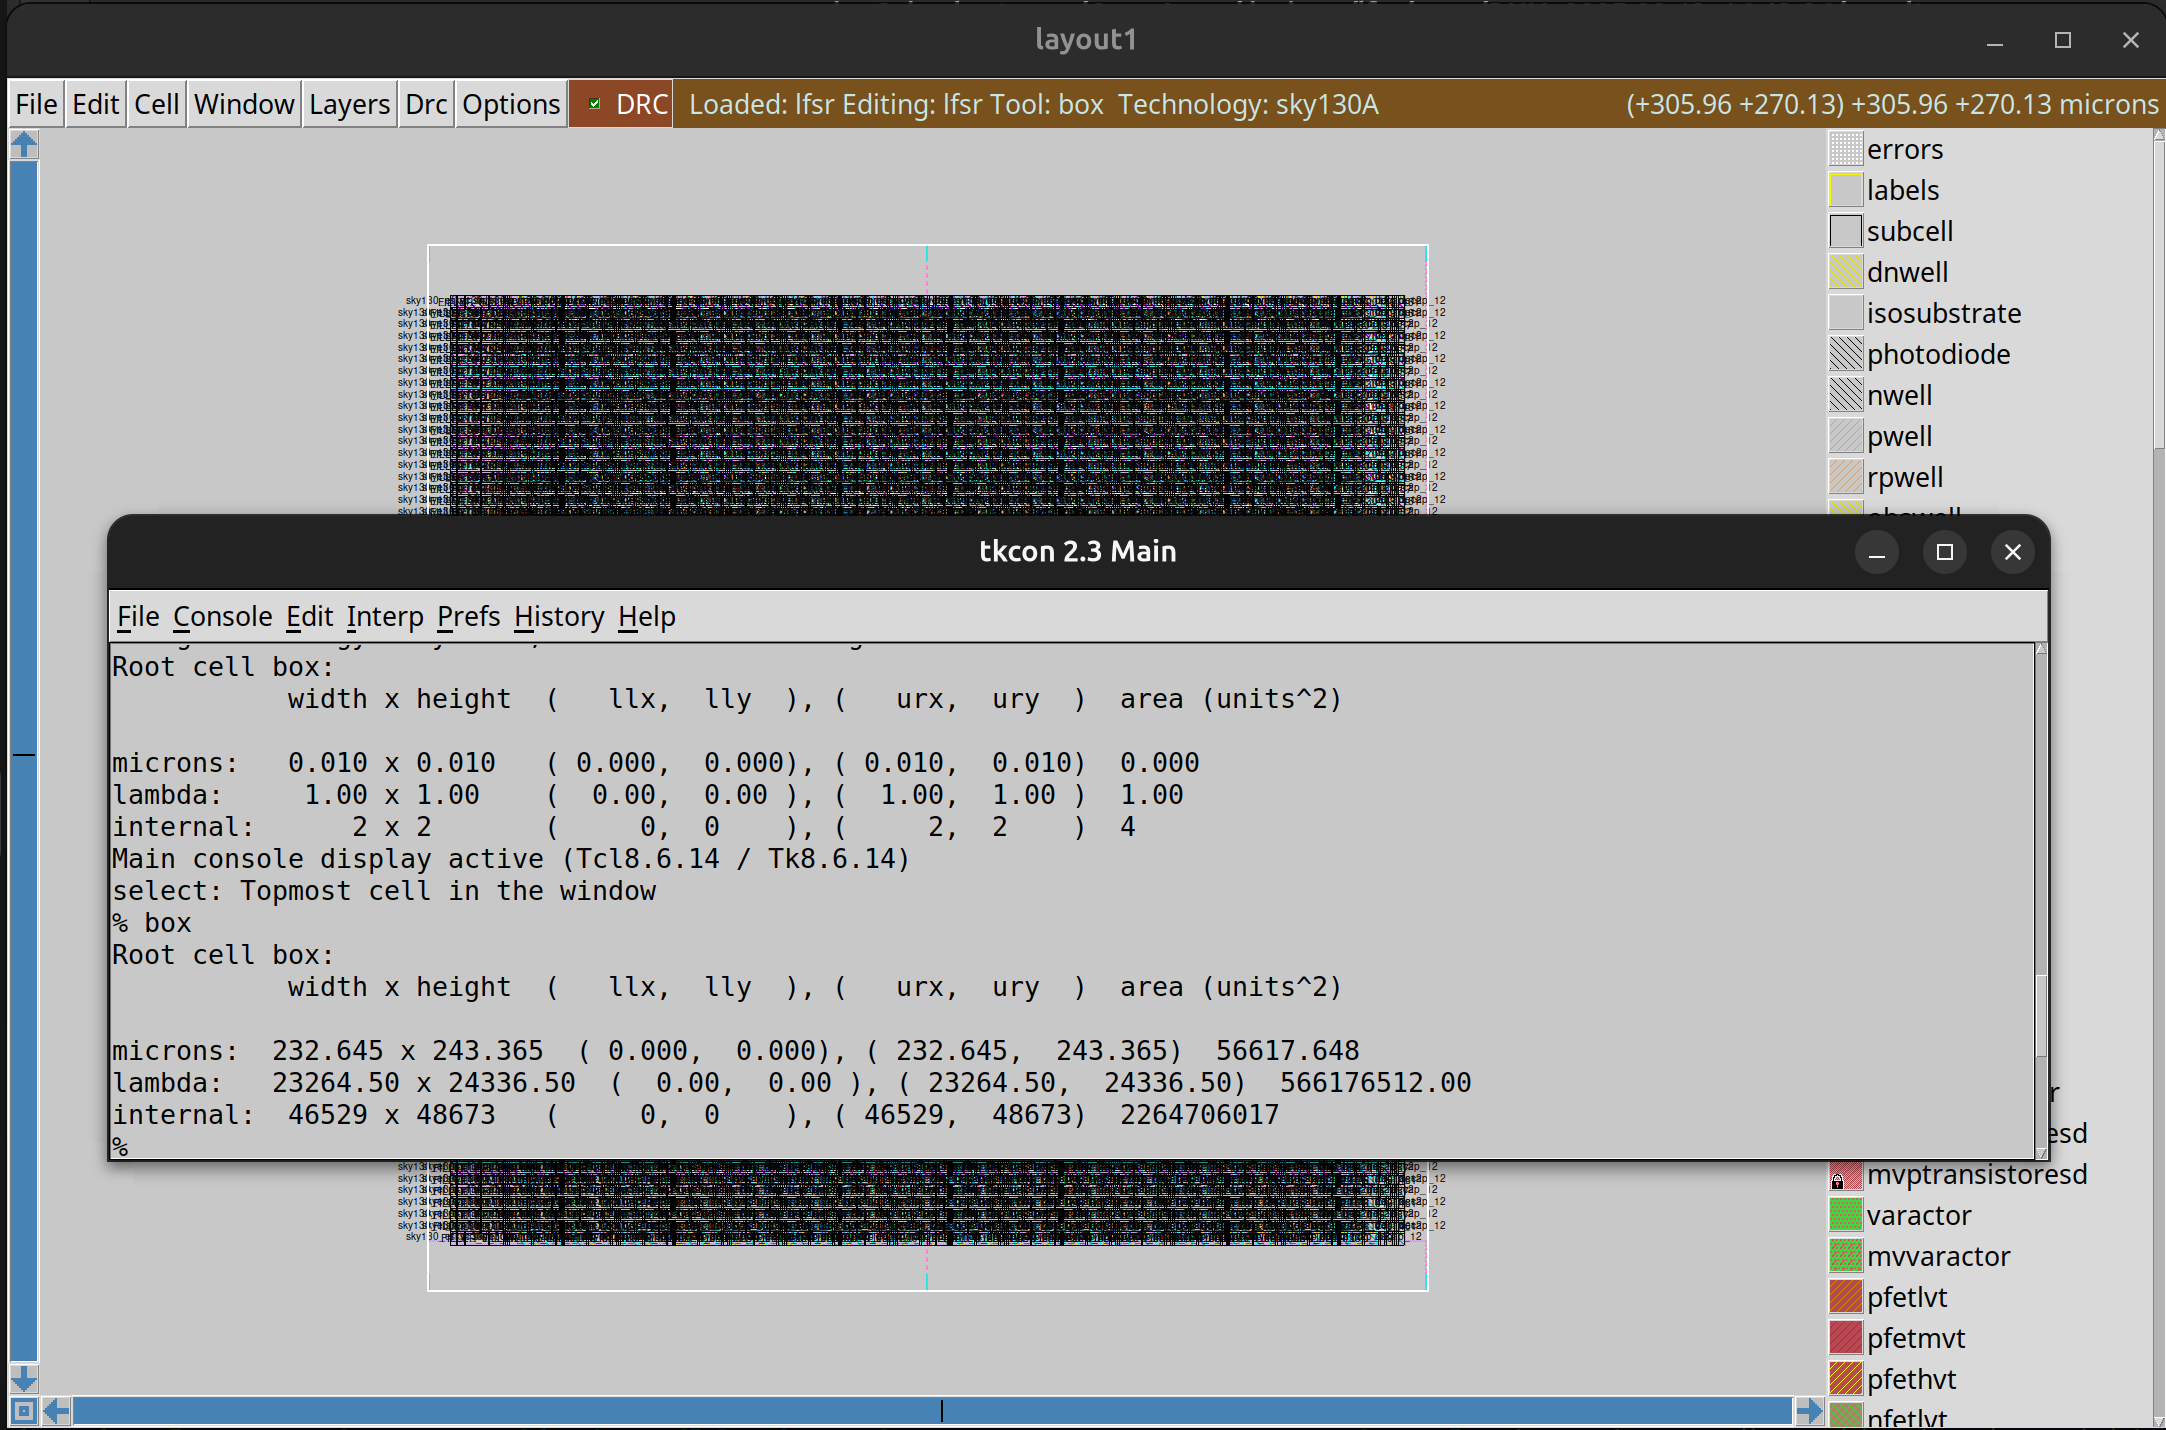
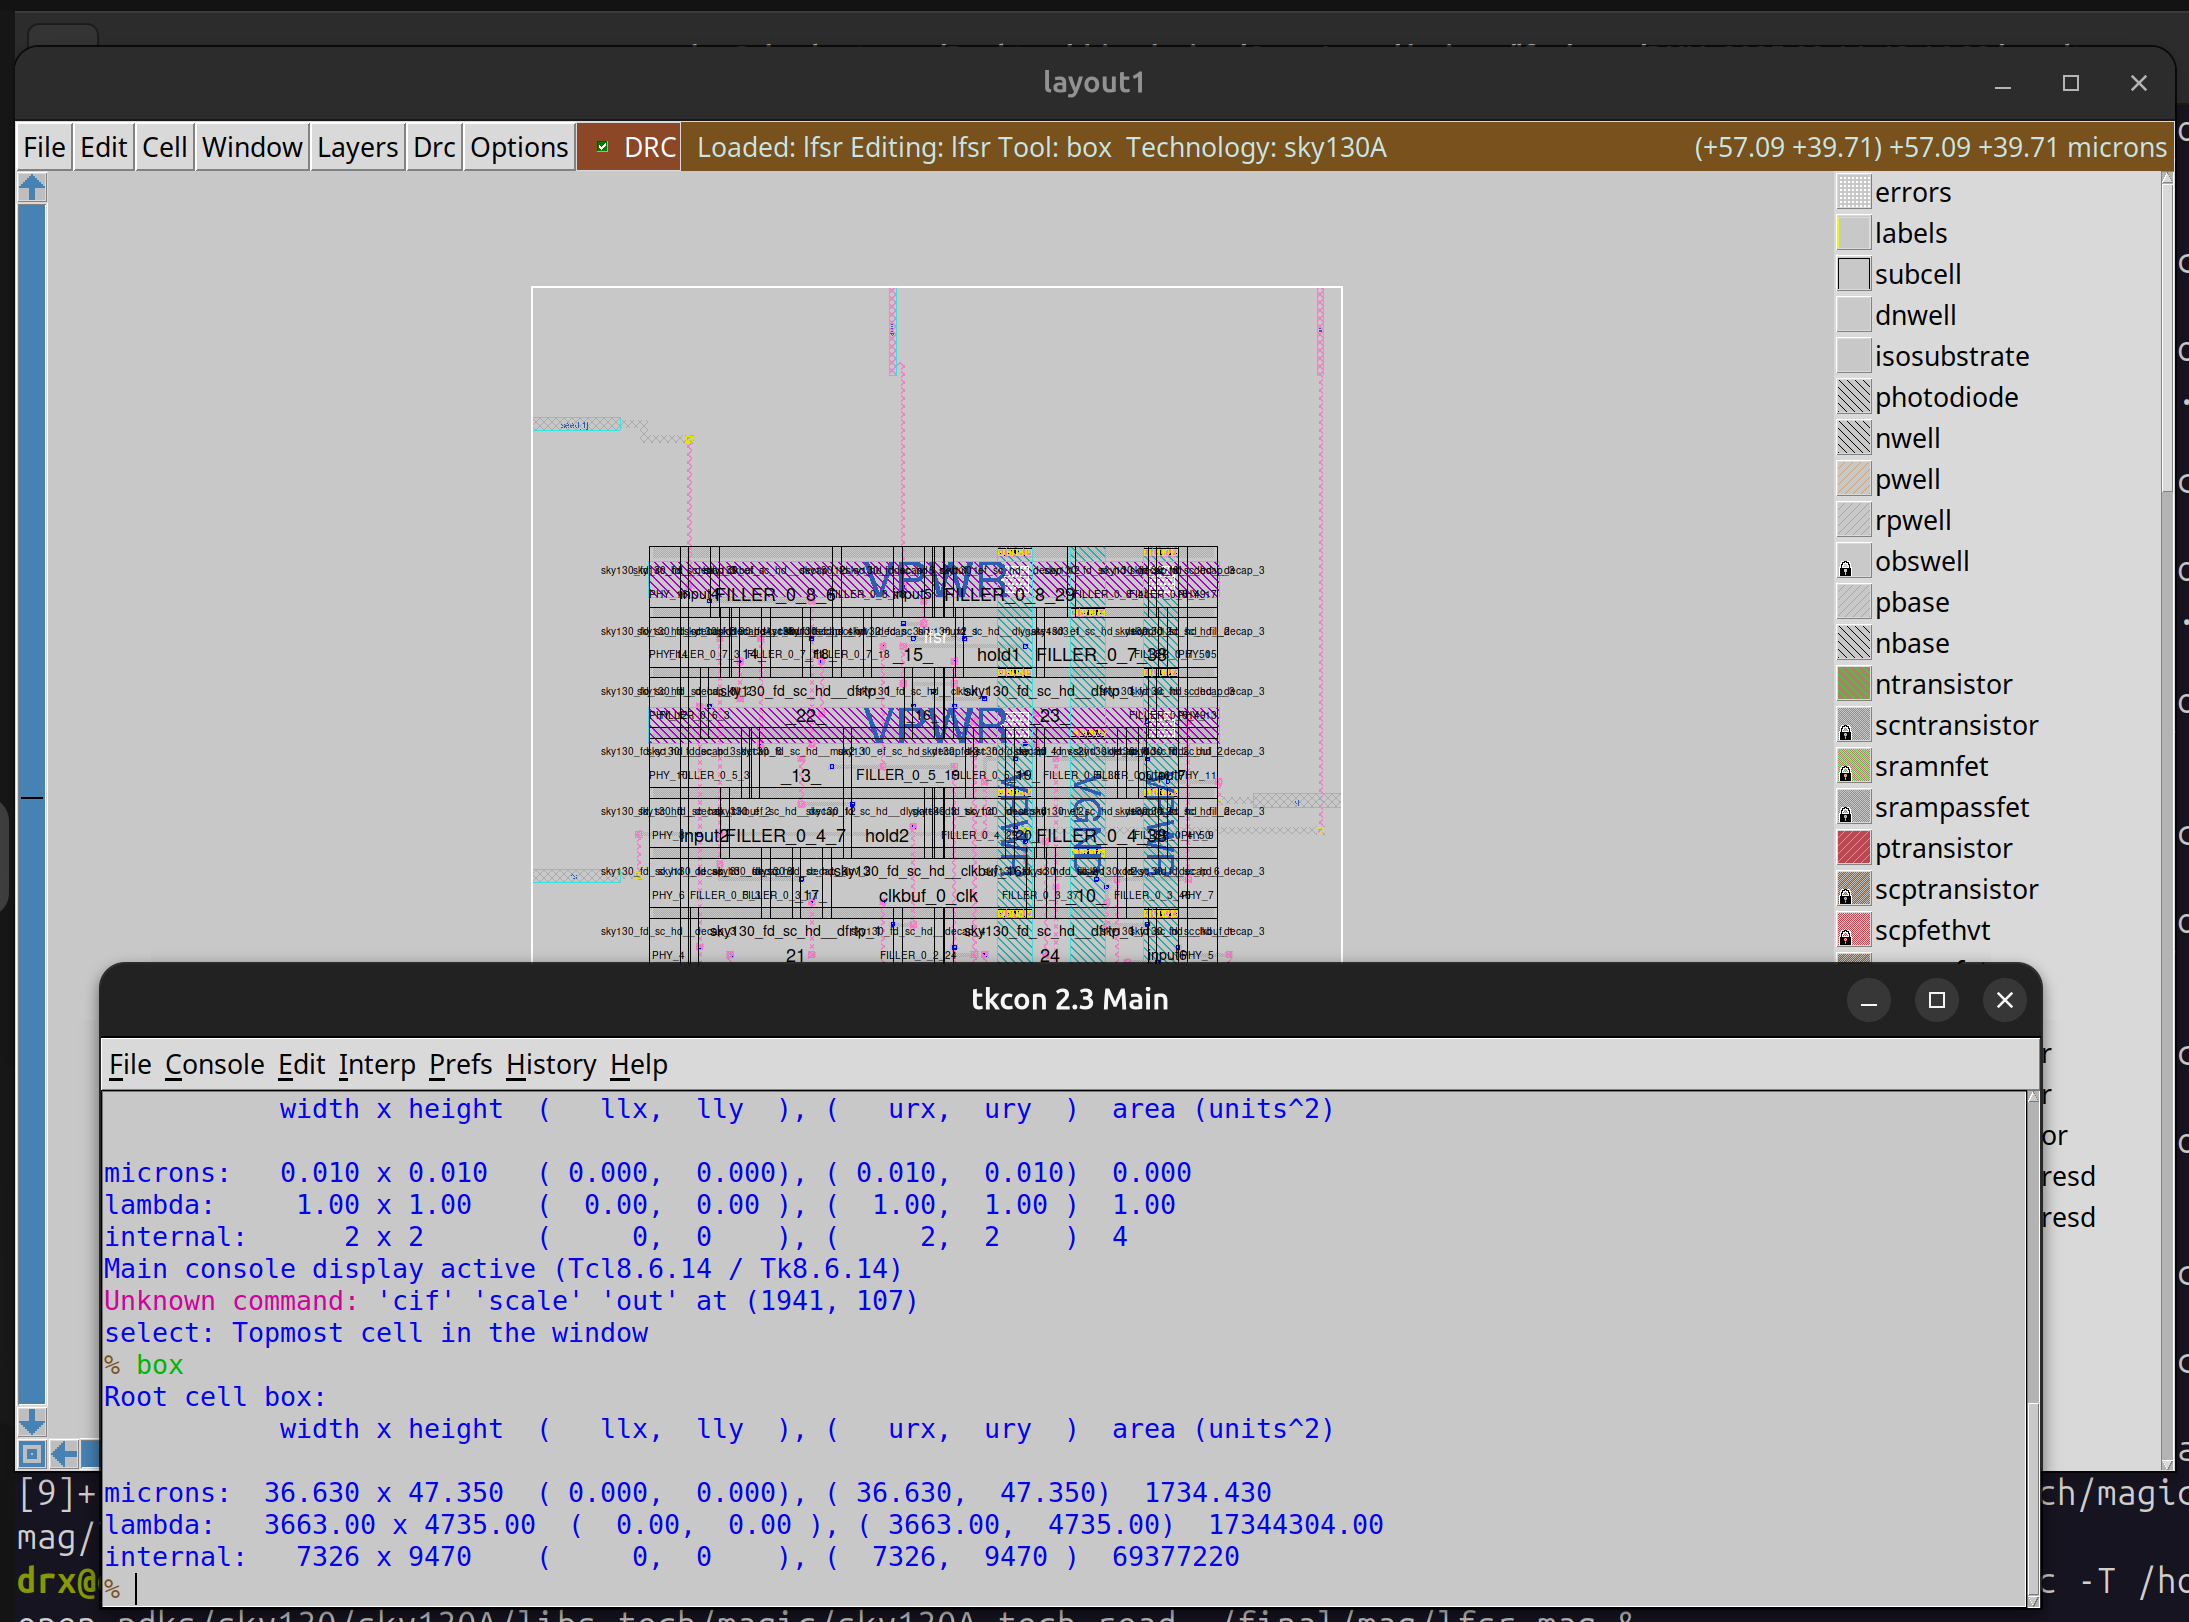
1

diff --git a/README.md b/README.md
@@ -296,9 +296,9 @@ klayout final/gds/lfsr.gds
 
 ![Power](./images/7_power.png)
 
-- **Total power** is **90.2 µW**. 
-- **Internal power** accounts for 80%
-- **Switching power** accounts for 20%.
+- **Total power** is **8.6 µW**. 
+- **Internal power** accounts for 84%
+- **Switching power** accounts for 16%.
 
 ## PERFORMANCE REPORT
 
@@ -306,23 +306,23 @@ klayout final/gds/lfsr.gds
 
 - **tns** = 0 (total negative slack)
 - **wns** = 0 (worst negative slack)
-- **worst slack** (setup) = 6.37 > 0
+- **worst slack** (setup) = 6.60 > 0
 
 That means there is no timing violation in our design.
 We could calculate the maximum Freq as below
 
 ```
 f(max) = 1 / (min clk period) = 1 / (clk period - worst slack)
-f(max) = 1 / (10 - 6.37) = 275 MHz
+f(max) = 1 / (10 - 6.60) = 294 MHz
 ```
 
-In theory, you can push clk frequency up to **275 MHz** without affecting the design
+In theory, you can push clk frequency up to **294 MHz** without affecting the design
 
 ## AREA REPORT
 
 ![Area](./images/7_area.png)
 
-Area = 56,617.648 µm2
+Area = 1,734.43 µm2
 
 # 8. FUTURE DEV
 
